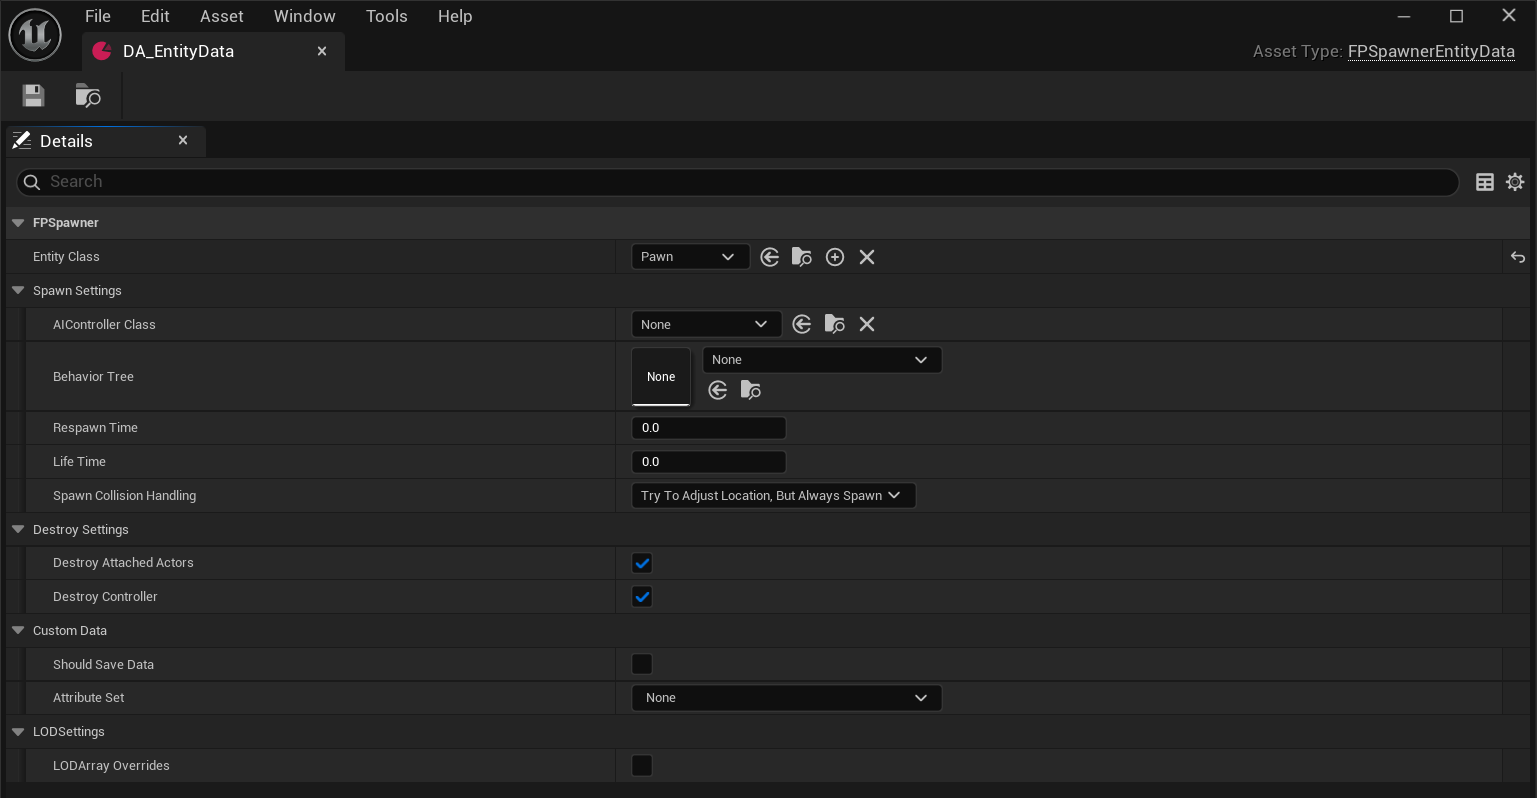
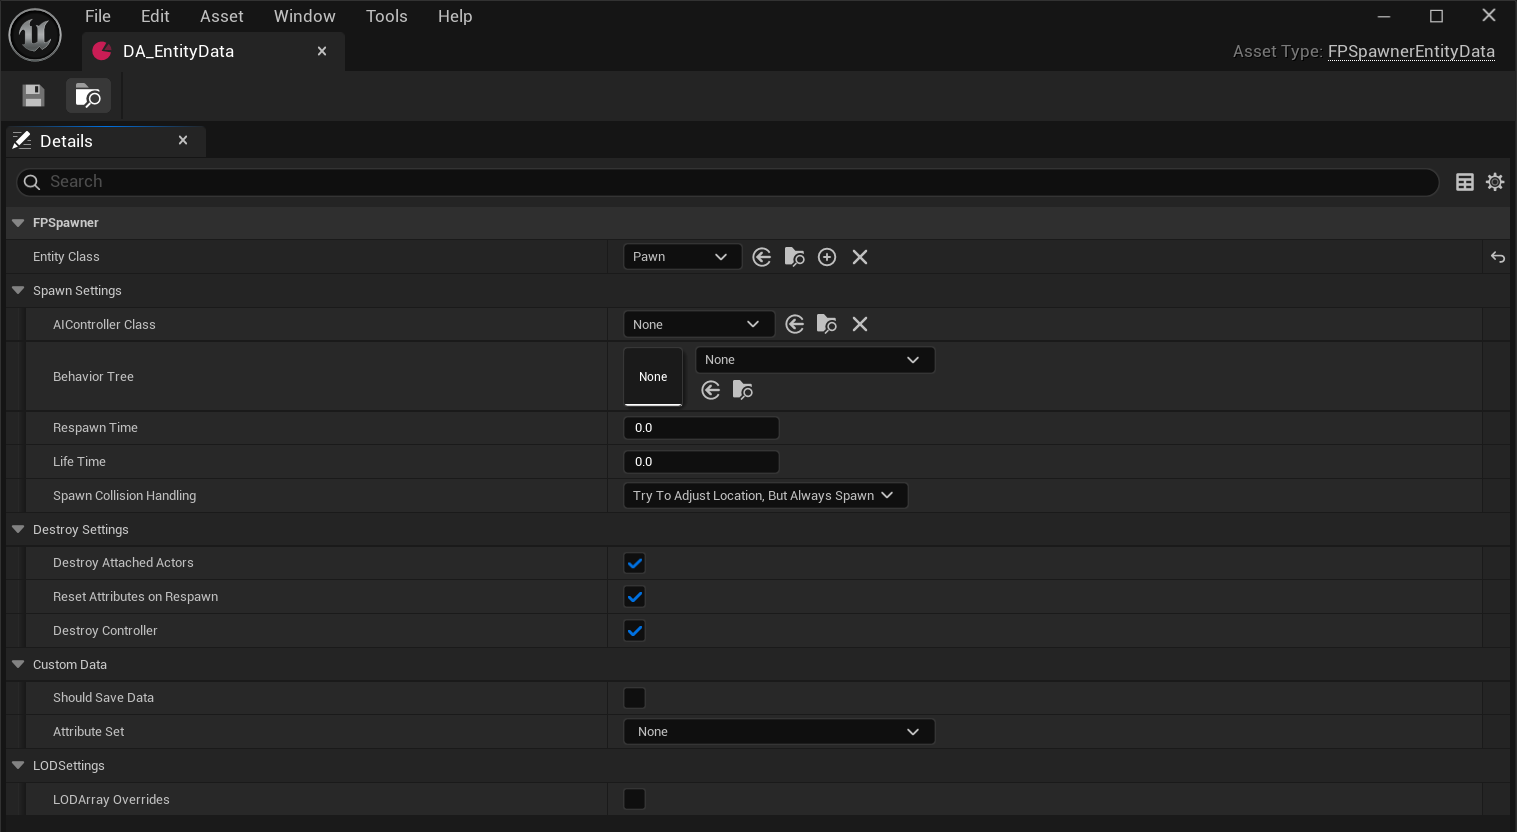
重生时是否重置属性

diff --git a/README.md b/README.md
@@ -689,8 +689,8 @@ graph TD
 |:-:|:-:|:-:|
 |EntityClass|`TSoftClassPtr<AActor>`|实体类，添加`Actor`时切换成`Actor`实体数据，添加`Pawn`时切换成`Pawn`实体数据|
 |MeshDatas|`TArray<FFPSpawnerMeshData>`|网格数据，不为空时切换成`Mesh`实体数据|
-|RespawnTime|`float`|重生时间，等于0时不重生，外部调用AActor::Destroy()或通过[函数库](#fpspawnersystem-functionlibrary)的函数`TryModifyEntityManagerState()`销毁`Acyor`时，重新生成实体的时间间隔|
-|LifeTime|`float`|生存时间，等于0时不死亡，第一次生成实体的时间到当前时间的时间间隔大于`LifeTime`时销毁`Acyor`|
+|RespawnTime|`float`|重生时间，等于0时不重生，外部调用AActor::Destroy()或通过[函数库](#fpspawnersystem-functionlibrary)的函数`TryModifyEntityManagerState()`销毁`Actor`时，重新生成实体的时间间隔|
+|LifeTime|`float`|生存时间，等于0时不死亡，当激活源加载实体时，实体从生成到当前的时间间隔如果超过该值，则销毁实体。在激活源附近的实体不会因生存时间过长而被销毁|
 
 <a name="fpspawnersystem_entitydata_Mesh"></a>
 `Mesh`实体数据
@@ -713,6 +713,7 @@ graph TD
 |:-:|:-:|:-:|
 |SpawnCollisionHandling |`ESpawnActorCollisionHandlingMethod`|生成Actor的碰撞处理方法|
 |bDestroyAttachedActors|`boo`|是否销毁附加的`Actor`|
+|bResetAttributesOnRespawn|`boo`|重生时是否重置属性|
 |bShouldSaveData|`boo`|是否应该保存数据，为`true`时调用[函数库](#fpspawnersystem-functionlibrary)的函数`GetSpawnerSaveData()`保存此实体的数据，下此启动游戏时调用[函数库](#fpspawnersystem-functionlibrary)的函数`ApplySpawnerSaveData()`初始化属性|
 |AttributeSet|`TObjectPtr<UFPSpawnerEntityAttributeSet>`|[实体属性集](#fpspawnersystem_entityattributeset)|
 |bLODArrayOverrides|`boo`|LOD数组覆盖，为true时覆盖[项目设置](#fpspawnersystem-projectsettings)中的LODArray，使用仅属于此实体的LOD|
@@ -725,7 +726,7 @@ graph TD
 
 |属性名称|类型|描述|
 |:-:|:-:|:-:|
-|AIControllerClass|`TSoftClassPtr<AController>`|AI控制器类，当`Pawn`没有AI控制器时，使用此类创建控制器|
+|AIControllerClass|`TSoftClassPtr<AAIController>`|AI控制器类，当`Pawn`没有AI控制器时，使用此类创建控制器|
 |BehaviorTree|`TSoftObjectPtr<UBehaviorTree>`|AI行为树|
 |bDestroyController|`bool`|AI角色是否删除AI控制器，如果不删除，下次复活或激活将继续使用此控制器；实体被停用或重置时会强制销毁|
 
@@ -793,8 +794,9 @@ public:
 	void RecycleAttributeSet(UFPSpawnerEntityAttributeSet* AttributeSet);
 
 	// 函数会在此系统删除Actor前执行，删除Actor不代表删除实体，激活源远离也会删除并执行此函数
+	// @param NewEntityState 删除实体后的实体状态
 	UFUNCTION(BlueprintCallable, BlueprintNativeEvent, BlueprintAuthorityOnly, Category = "FPSpawner")
-	void DestroyActor();
+	void DestroyActor(EFPSpawnerEntityStateType NewEntityState);
 
 	// 接收年龄时间(秒)
 	// @param AgeTime 第一次生成此实体到现在的时间，而非重新激活的时间
